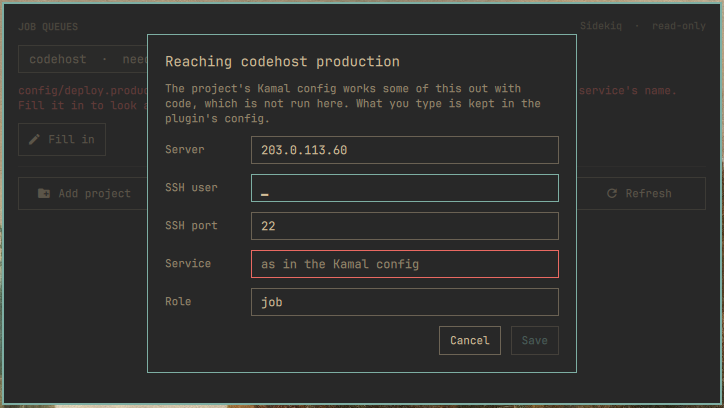
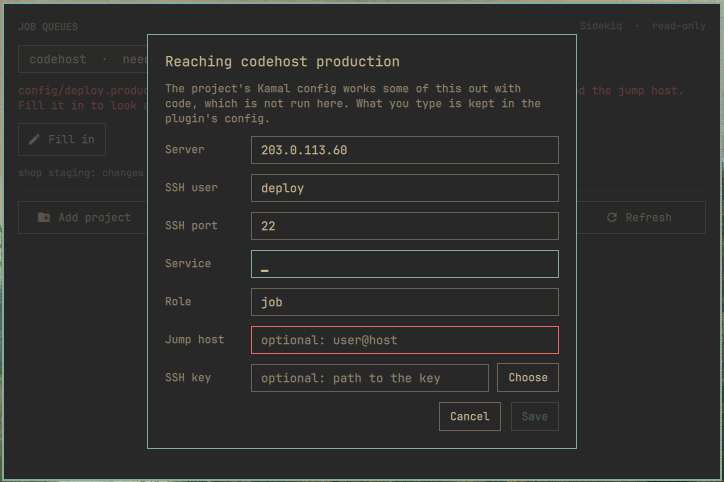
Retake the screenshots; keep an environment's messages to itself
The pictures showed the lock button under its old names and the fill-in
form without the jump host and key fields.

What is said about unlocking, locking and saving one environment was
shown under every project until the next message came; it now belongs to
that environment.

diff --git a/Panel.qml b/Panel.qml
@@ -276,8 +276,9 @@ Panel {
 
   readonly property var message: {
     var m = status.message
-    // Without an id it is about the list of projects, not one environment.
-    return m && m.text && (m.id === "" || (m.id === targetId && m.backend === backend)) ? m : null
+    // Without an id it is about the list of projects; with one, about that
+    // environment, and with a backend about a change made in it.
+    return m && m.text && (m.id === "" || (m.id === targetId && (m.backend === "" || m.backend === backend))) ? m : null
   }
 
   // A project that was just added is the one to look at.
